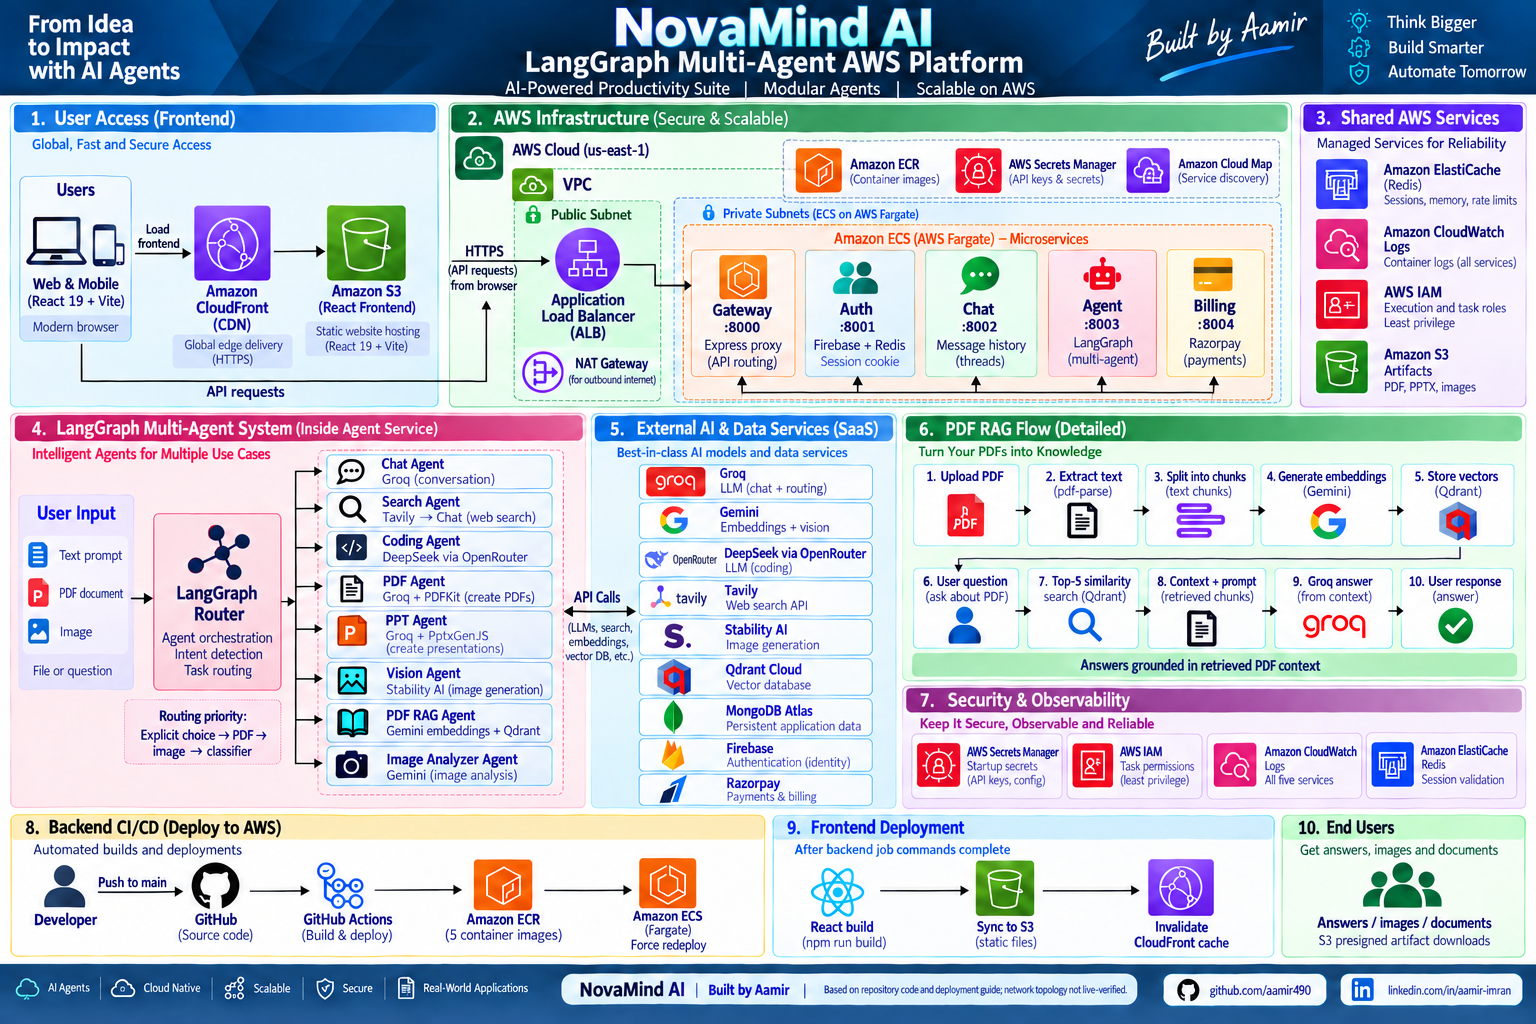
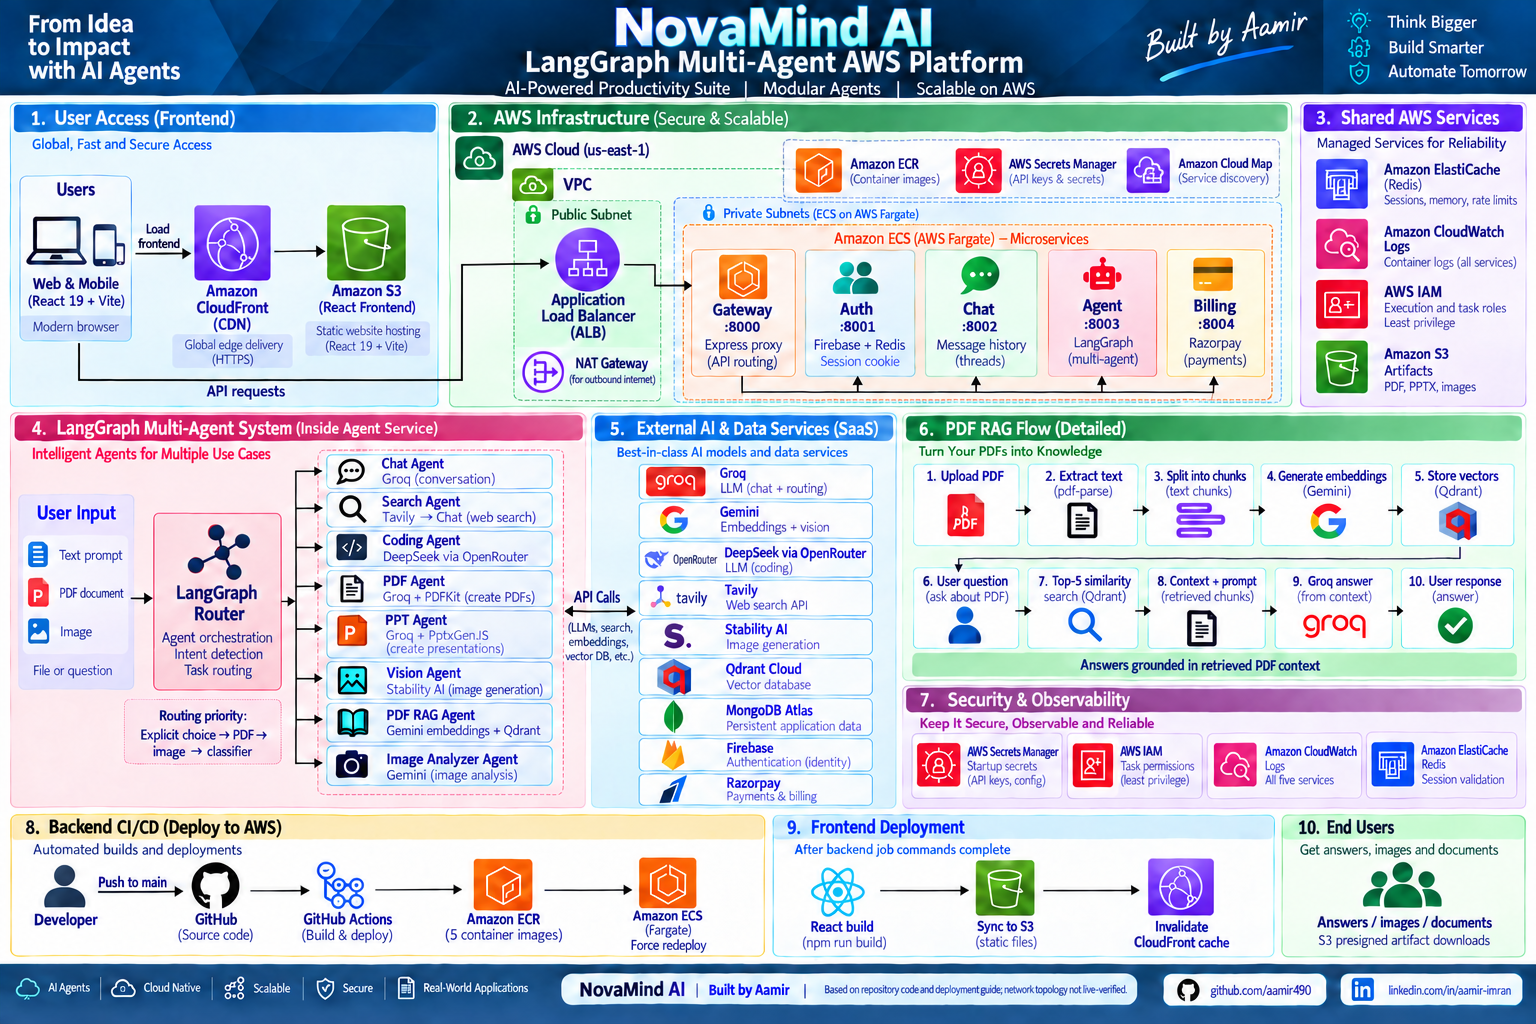
docs: clarify setup requirements and correct architecture arrows

diff --git a/README.md b/README.md
@@ -48,7 +48,7 @@ The diagram shows how NovaMind AI takes a user's request, chooses the right AI t
 
 **First, you open the website and sign in.** AWS S3 stores the website files, and CloudFront delivers them to your browser. Google sign-in uses Firebase to verify your identity. The backend then creates a session so you can continue using the app without signing in for every request.
 
-**Next, you send a message or upload a file.** Your request passes through the Load Balancer to the Gateway, the backend's entry point. The Gateway checks your session and forwards the request to the right service. Auth manages your account and credits, Chat saves conversations, Agent handles AI tasks, and Billing handles payments.
+**Next, you send a message or upload a file.** In the AWS deployment, your request passes through the Load Balancer to the Gateway, the backend's entry point. During local development, your browser connects directly to the Gateway at `localhost:8000`. The Gateway checks your session for protected requests and forwards them to the right service. Auth manages your account and credits, Chat saves conversations, Agent handles AI tasks, and Billing handles payments.
 
 **For an AI task, the Agent service chooses a specialist.** For example, if you upload a PDF and ask a question, the PDF RAG workflow reads the document, finds relevant passages, and gives those passages to an AI model to help it answer. A coding request uses the Coding agent, while an image-generation request uses the Vision agent. These eight specialists all run inside the same Agent service.
 
@@ -241,7 +241,8 @@ Dependency versions are maintained in [frontend/package.json](frontend/package.j
 - Node.js 22 and npm.
 - Docker Desktop with Docker Compose for local Redis.
 - MongoDB connection strings and a Firebase project with Google sign-in enabled.
-- Provider credentials for the features you intend to use: Groq, Gemini, OpenRouter, Tavily, Stability AI and Qdrant.
+- Groq, Gemini and OpenRouter credentials for the Agent service's model clients. These clients are created when the service starts, so do not assume their keys are optional when using only one agent.
+- Tavily credentials for web search, Stability AI credentials for image generation, and a Qdrant URL/API key for PDF question answering.
 - An S3 bucket and AWS credentials for generated files; Razorpay keys for billing.
 
 ### 2. Configure environment files
@@ -268,6 +269,7 @@ BILLING_SERVICE=http://localhost:8004
 
 Additional setup beyond the example files:
 
+- **Agent startup:** set `GROQ_API_KEY`, `GOOGLE_API_KEY` and `OPENROUTER_API_KEY` before starting the Agent service. Groq, Gemini and OpenRouter clients validate their API keys during initialization; missing keys can stop the service before it accepts requests.
 - **Firebase:** place the service account at `backend/services/auth/serviceAccountKey.json`, or supply its JSON through `FIREBASE_SERVICE_ACCOUNT`. Match the browser Firebase project configuration in [frontend/utils/firebase.js](frontend/utils/firebase.js) to your project.
 - **Image generation:** add `STABILITY_API_KEY` to the Agent environment; it is not included in the current example file.
 - **Admin data:** add `BILLING_MONGODB_URI` and `CHAT_MONGODB_URI` to Auth for the cross-service admin views.
@@ -337,6 +339,7 @@ npm --prefix frontend run build
 These are frontend checks. The repository does not currently provide a backend automated test suite.
 
 - **Redis connection fails:** confirm Docker is running and the local Redis port is 6379.
+- **Agent exits with a missing-key error:** check its `.env` file for the model credentials listed above and start it from `backend/services/agent/` so the environment file is loaded.
 - **Login succeeds but API calls fail:** confirm `VITE_SERVER_URL`, Gateway `FRONTEND_URL`, and local `NODE_ENV` settings agree. Restart Vite after changing frontend environment values.
 - **Provider or artifact calls fail:** check the relevant API key, provider access, S3 bucket region and AWS permissions.
 - **Admin data fails to load:** check both admin database connection strings in Auth.

diff --git a/new-project-pic/architecture-poster-notes.md b/new-project-pic/architecture-poster-notes.md
@@ -7,3 +7,5 @@ Generation brief: Match the reference's landscape ten-panel layout, navy NovaMin
 Correction brief: Preserve the poster design. Replace sequential microservice arrows with independent Gateway branches to Auth, Chat, Agent and Billing. API requests originate at the browser, not S3. Avoid asserting HTTPS on the configurable API endpoint. Label GitHub Actions Build & deploy rather than Build & test.
 
 The poster's marks are generated illustrations. For the diagram embedding original AWS asset files, use the separately retained `novamind-aws-architecture.svg` and its renderer, `scripts/render_architecture.py`. That renderer does not regenerate this poster.
+
+Final arrow correction (built-in image-generation edit): preserve the full poster; connect the browser-to-ALB path as a continuous elbow with an arrowhead only at the ALB; remove the API HTTPS label; remove the arrowhead pointing back into Gateway from the routing bus, retaining four outward branches to Auth, Chat, Agent and Billing.
